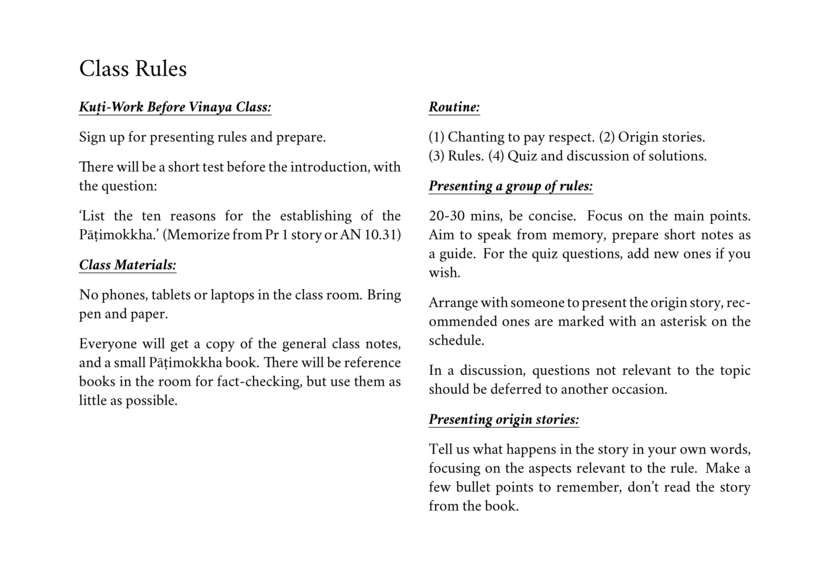
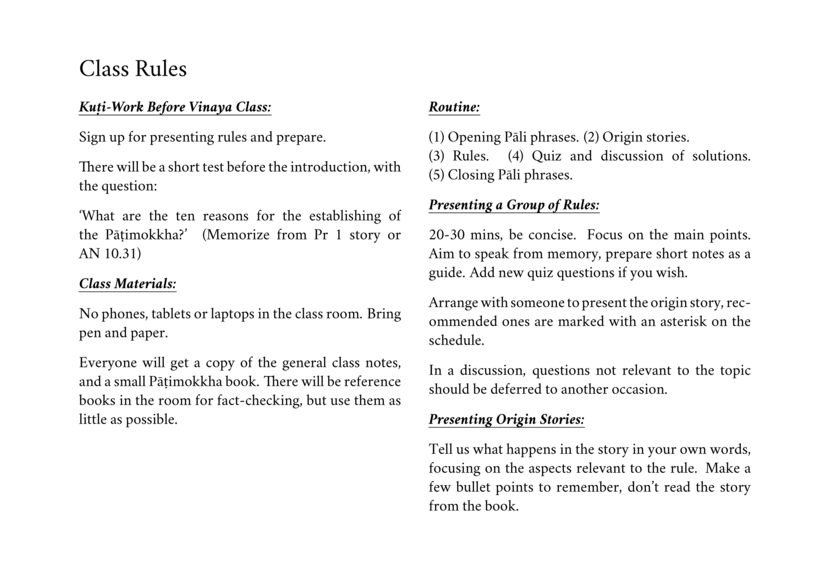
upd class rules

Changed region(s): [[0.0904, 0.3385, 0.4819, 0.7385], [0.512, 0.2154, 0.9036, 0.4923], [0.6024, 0.7077, 0.7229, 0.7385]]

diff --git a/tex/schedule/class-rules.tex b/tex/schedule/class-rules.tex
@@ -56,7 +56,7 @@ Sign up for presenting rules and prepare.
 
 There will be a short test before the introduction, with the question:
 
-`List the ten reasons for the establishing of the Pāṭimokkha.' (Memorize from Pr 1 story or AN 10.31)
+`What are the ten reasons for the establishing of the Pāṭimokkha?' (Memorize from Pr~1 story or AN~10.31)
 
 \subSectionFmt{Class Materials:}
 
@@ -68,18 +68,20 @@ Everyone will get a copy of the general class notes, and a small Pāṭimokkha b
 
 \subSectionFmt{Routine:}
 
-(1)~Chanting to pay respect. (2)~Origin stories.\\
-(3)~Rules. (4)~Quiz and discussion of solutions.
+(1)~Opening Pāli phrases. (2)~Origin stories.\\
+(3)~Rules. (4)~Quiz and discussion of solutions. (5)~Closing Pāli phrases.
 
-\subSectionFmt{Presenting a group of rules:}
+\subSectionFmt{Presenting a Group of Rules:}
 
-20-30 mins, be concise. Focus on the main points. Aim to speak from memory, prepare short notes as a guide. For the quiz questions, add new ones if you wish.
+20-30 mins, be concise. Focus on the main points.
+Aim to speak from memory, prepare short notes as a guide.
+Add new quiz questions if you wish.
 
 Arrange with someone to present the origin story, recommended ones are marked with an asterisk on the schedule.
 
 In a discussion, questions not relevant to the topic should be deferred to another occasion.
 
-\subSectionFmt{Presenting origin stories:}
+\subSectionFmt{Presenting Origin Stories:}
 
 Tell us what happens in the story in your own words, focusing on the aspects relevant to the rule. Make a few bullet points to remember, don't read the story from the book.
 
